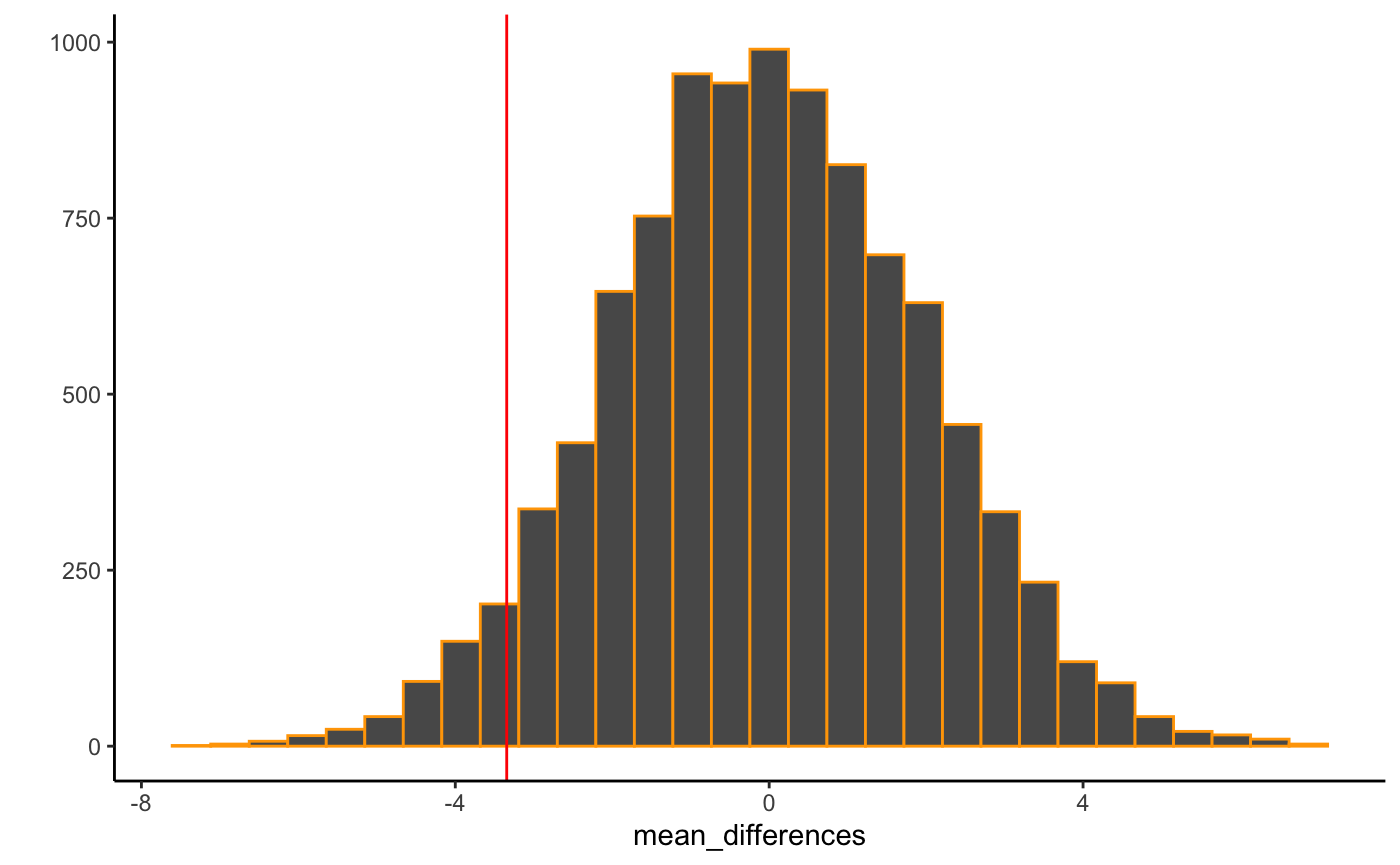
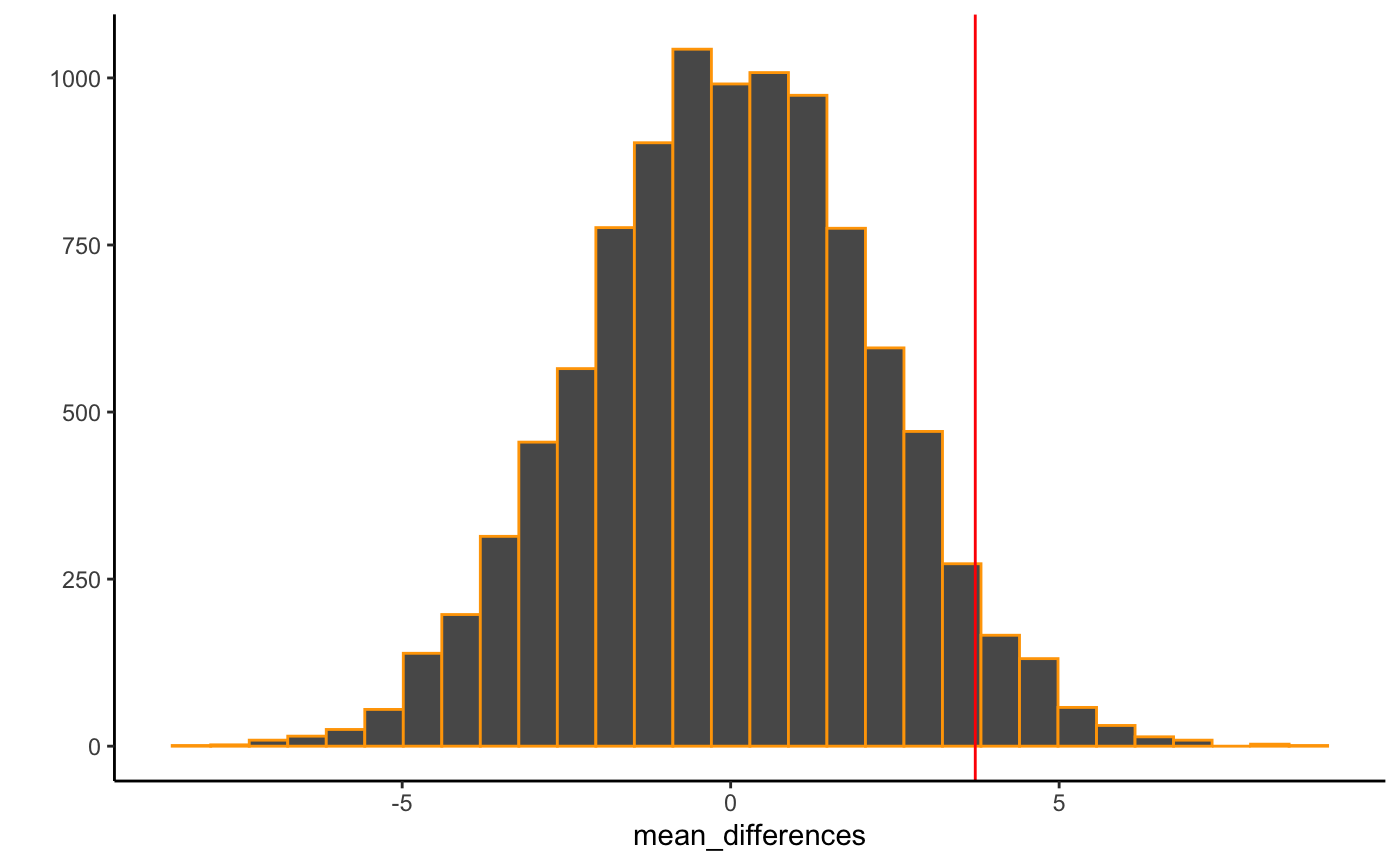
lab 6 videos

diff --git a/docs/articles/Lab6_Statistical_Inference.html b/docs/articles/Lab6_Statistical_Inference.html
@@ -155,6 +155,8 @@
 <div id="readings-and-review" class="section level2">
 <h2 class="hasAnchor">
 <a href="#readings-and-review" class="anchor"></a>Readings and Review</h2>
+<iframe width="560" height="315" src="https://www.youtube.com/embed/_mOn3wLjqqA" frameborder="0" allow="accelerometer; autoplay; clipboard-write; encrypted-media; gyroscope; picture-in-picture" allowfullscreen>
+</iframe>
 <p>This lab marks a departure into the land of statistical inference. We have been working toward these concepts and using R to help us understand basic aspects of distributions and sampling from distributions. These concepts will be applied throughout the remainder of the course as we discuss many different tools and tests and for statistical inference.</p>
 <p>As your instructor (Matt Crump), you should know that I have many “feelings” about statistical inference. That is, I have many perspectives, sometimes competing and even inconsistent ones, about the value, goals, and practice of “doing statistical inference”. This is partly because there are many well-founded opinions and approaches to statistical inference out there to try out, and also partly because there are many known issues and flawed practices that researchers sometimes engage in, and there also many limitations to the kinds of inferences that can be made depending on what you are doing.</p>
 <p>To take one example, a researcher might want to do an “X test” on their data, and even though they don’t really know what the “X test” is all about, they know that they can put their data into a program and press a button, and the program will do the X test, and then they can report the results of the X test in a paper. My view is that this kind of behavior is irresponsible. My view is that, in general, the researcher should have extremely well thought out reasons and justifications and motivations in advance of collecting the data for how they will do the analysis. They should be able to describe how the X test works, what it’s assumptions are, and why it is appropriate to use in their case, as well as what it’s limitations are, and what exactly can be concluded from the test.</p>
@@ -224,7 +226,7 @@
 }
 
 <span class="no">count_examples</span>/<span class="fl">10000</span>
-<span class="co">#&gt; [1] 0.008</span></pre></body></html></div>
+<span class="co">#&gt; [1] 0.0085</span></pre></body></html></div>
 <p>A quick summary. Permutations are different ways to order numbers. For a given set of numbers, there is always a total number of possible orders. If we assume that any of the orders could have been obtained by chance, then we can calculate the chances of getting a particular order.</p>
 </div>
 <div id="a-permutation-test-example" class="section level3">
@@ -248,42 +250,42 @@
 <tr class="odd">
 <td align="left">A</td>
 <td align="right">1</td>
-<td align="right">4</td>
+<td align="right">1</td>
 </tr>
 <tr class="even">
 <td align="left">A</td>
 <td align="right">2</td>
-<td align="right">1</td>
-</tr>
-<tr class="odd">
-<td align="left">A</td>
-<td align="right">3</td>
-<td align="right">3</td>
-</tr>
-<tr class="even">
-<td align="left">A</td>
 <td align="right">4</td>
-<td align="right">7</td>
 </tr>
 <tr class="odd">
-<td align="left">B</td>
-<td align="right">1</td>
-<td align="right">6</td>
-</tr>
-<tr class="even">
-<td align="left">B</td>
-<td align="right">2</td>
-<td align="right">8</td>
-</tr>
-<tr class="odd">
-<td align="left">B</td>
+<td align="left">A</td>
 <td align="right">3</td>
 <td align="right">5</td>
 </tr>
 <tr class="even">
-<td align="left">B</td>
+<td align="left">A</td>
 <td align="right">4</td>
 <td align="right">2</td>
+</tr>
+<tr class="odd">
+<td align="left">B</td>
+<td align="right">1</td>
+<td align="right">3</td>
+</tr>
+<tr class="even">
+<td align="left">B</td>
+<td align="right">2</td>
+<td align="right">6</td>
+</tr>
+<tr class="odd">
+<td align="left">B</td>
+<td align="right">3</td>
+<td align="right">7</td>
+</tr>
+<tr class="even">
+<td align="left">B</td>
+<td align="right">4</td>
+<td align="right">8</td>
 </tr>
 </tbody>
 </table>
@@ -381,7 +383,7 @@
 <p><img src="Lab6_Statistical_Inference_files/figure-html/unnamed-chunk-20-1.png" width="700"></p>
 <p>The histogram shows all of the possible differences we could have obtained by randomly sampling the participants into the different groups. The red line shows the difference that was obtained. These are all facts of this example.</p>
 <p>I like to the think of the “distribution of possible differences” as a window of opportunity for chance. That is, we are looking at differences in the data that could have been produced by chance. We also see that some values occur more often than others. For example, the red line, with the observed difference of 8.25 is 1) inside the distribution, which means that chance could have produced this difference, but 2) it is kind of far to the left, so it seems that chance doesn’t produce a difference this big very often.</p>
-<p>We could be more precise and calculate the odds of getting a difference of 8.25 or larger, which I find to be 10%.</p>
+<p>We could be more precise and calculate the odds of getting a difference of 8.25 or larger, which I find to be 11.4%.</p>
 <div class="sourceCode" id="cb20"><html><body><pre class="r"><span class="fu"><a href="https://rdrr.io/r/base/length.html">length</a></span>(<span class="no">possible_differences</span>[<span class="no">possible_differences</span> <span class="kw">&gt;=</span> <span class="fl">8.25</span>]) / <span class="fu"><a href="https://rdrr.io/r/base/length.html">length</a></span>(<span class="no">possible_differences</span>)
 <span class="co">#&gt; [1] 0.1142857</span></pre></body></html></div>
 <p>So…to return the cartoon character metaphor, we have a who dunnit question. Was Mickey Mouse with the million dollars that caused the difference of 8.25? Or was it Donald Duck with random chance that accidentally produced a difference of 8.25? We know that Mr. Duck only produces a difference of 8.25 or larger 10% of the time…Is that enough to say that Mr. Duck DID NOT DO IT? I don’t think so. He clearly could have done it. Can we be absolutely certain that it was the million dollar manipulation? No. Have we learned anything useful at all? I think so, it seems we got a result that is irregular from the perspective of chance. This might give me some confidence that the experimental manipulation actually caused the difference, and not the act of randomly assigning participants to groups.</p>
@@ -398,11 +400,11 @@
 <span class="no">group_B</span> <span class="kw">&lt;-</span> <span class="fu"><a href="https://rdrr.io/r/stats/Normal.html">rnorm</a></span>(<span class="fl">50</span>,<span class="fl">65</span>,<span class="fl">10</span>)</pre></body></html></div>
 <p>We can then calculate the mean of each group, and look at the difference.</p>
 <div class="sourceCode" id="cb22"><html><body><pre class="r"><span class="fu"><a href="https://rdrr.io/r/base/mean.html">mean</a></span>(<span class="no">group_A</span>)
-<span class="co">#&gt; [1] 62.31775</span>
+<span class="co">#&gt; [1] 68.29682</span>
 <span class="fu"><a href="https://rdrr.io/r/base/mean.html">mean</a></span>(<span class="no">group_B</span>)
-<span class="co">#&gt; [1] 65.66232</span>
+<span class="co">#&gt; [1] 64.57343</span>
 <span class="fu"><a href="https://rdrr.io/r/base/mean.html">mean</a></span>(<span class="no">group_A</span>)-<span class="fu"><a href="https://rdrr.io/r/base/mean.html">mean</a></span>(<span class="no">group_B</span>)
-<span class="co">#&gt; [1] -3.344571</span></pre></body></html></div>
+<span class="co">#&gt; [1] 3.723385</span></pre></body></html></div>
 <p>In some general sense if the manipulation works, that is it <strong>causes a difference</strong>, then we would expect to see a non-zero difference. If the manipulation is ineffective and does nothing, then we expect on average no difference, <strong>however we recognize that we could obtain differences just by chance alone, because of randomly sampling our participants into the different groups</strong>.</p>
 <p>We now want to calculate a <strong>sampling distribution of possible mean differences</strong>. To do this, we take all of the values in Group A and B, and randomly re-assign them across both groups, then recalculate the means and the mean difference. Then we, do this multiple times, as in monte-carlo simulation.</p>
 <div class="sourceCode" id="cb23"><html><body><pre class="r"><span class="co"># creating one random permutation</span>
@@ -411,6 +413,8 @@
 <span class="no">new_A_mean</span> <span class="kw">&lt;-</span> <span class="fu"><a href="https://rdrr.io/r/base/mean.html">mean</a></span>(<span class="no">resample</span>[<span class="fl">1</span>:<span class="fl">50</span>])
 <span class="no">new_B_mean</span> <span class="kw">&lt;-</span> <span class="fu"><a href="https://rdrr.io/r/base/mean.html">mean</a></span>(<span class="no">resample</span>[<span class="fl">51</span>:<span class="fl">100</span>])
 <span class="no">new_difference</span> <span class="kw">&lt;-</span> <span class="no">new_A_mean</span>-<span class="no">new_B_mean</span>
+<span class="no">new_difference</span>
+<span class="co">#&gt; [1] -1.515695</span>
 
 <span class="co"># Simulate the above process 10000 times</span>
 <span class="no">mean_differences</span> <span class="kw">&lt;-</span> <span class="fu"><a href="https://rdrr.io/r/base/c.html">c</a></span>()
@@ -432,7 +436,7 @@
 <p>In terms of a detective novel, this is <strong>chances alibi</strong>, it shows what chance is capable of doing. In this situation, chance alone could easily produce differences between group A and B as large as 4 or -4. Notice, that chance never produces a difference as large as 20. If you had all the information that we have in this example, then as a researcher you could attempt to rule out the possibility that was chance was involved in producing a difference that you observed.</p>
 <p>We can also use this distribution to calculate specific probabilities concerning chance. For example, what is the probability of getting a 4 or larger by chance alone?</p>
 <div class="sourceCode" id="cb25"><html><body><pre class="r"><span class="fu"><a href="https://rdrr.io/r/base/length.html">length</a></span>(<span class="no">mean_differences</span>[<span class="no">mean_differences</span> <span class="kw">&gt;=</span><span class="fl">4</span> ])/<span class="fu"><a href="https://rdrr.io/r/base/length.html">length</a></span>(<span class="no">mean_differences</span>)
-<span class="co">#&gt; [1] 0.0225</span></pre></body></html></div>
+<span class="co">#&gt; [1] 0.0348</span></pre></body></html></div>
 </div>
 <div id="p1-randomization-test-with-real-data" class="section level2">
 <h2 class="hasAnchor">
@@ -480,44 +484,44 @@
 <span class="no">simulation_data</span> <span class="kw">%&gt;%</span>
   <span class="fu"><a href="https://dplyr.tidyverse.org/reference/mutate.html">mutate</a></span>(<span class="kw">Intellect_Rating</span> <span class="kw">=</span> <span class="fu"><a href="https://rdrr.io/r/base/sample.html">sample</a></span>(<span class="no">Intellect_Rating</span>))
 <span class="co">#&gt;    CONDITION Intellect_Rating</span>
-<span class="co">#&gt; 1          1        3.6666667</span>
-<span class="co">#&gt; 2          1        5.0000000</span>
-<span class="co">#&gt; 3          1        3.3333333</span>
-<span class="co">#&gt; 4          0        2.0000000</span>
-<span class="co">#&gt; 5          0        9.0000000</span>
-<span class="co">#&gt; 6          0        5.6666667</span>
-<span class="co">#&gt; 7          1        6.0000000</span>
-<span class="co">#&gt; 8          0        6.6666667</span>
-<span class="co">#&gt; 9          1        5.0000000</span>
-<span class="co">#&gt; 10         0        1.6666667</span>
-<span class="co">#&gt; 11         0        6.3333333</span>
-<span class="co">#&gt; 12         1        3.6666667</span>
-<span class="co">#&gt; 13         1        6.0000000</span>
-<span class="co">#&gt; 14         0        4.6666667</span>
+<span class="co">#&gt; 1          1        6.6666667</span>
+<span class="co">#&gt; 2          1        6.0000000</span>
+<span class="co">#&gt; 3          1        5.3333333</span>
+<span class="co">#&gt; 4          0        5.6666667</span>
+<span class="co">#&gt; 5          0        3.3333333</span>
+<span class="co">#&gt; 6          0        3.3333333</span>
+<span class="co">#&gt; 7          1        7.6666667</span>
+<span class="co">#&gt; 8          0        4.6666667</span>
+<span class="co">#&gt; 9          1        6.0000000</span>
+<span class="co">#&gt; 10         0        7.0000000</span>
+<span class="co">#&gt; 11         0        5.6666667</span>
+<span class="co">#&gt; 12         1        6.0000000</span>
+<span class="co">#&gt; 13         1        3.6666667</span>
+<span class="co">#&gt; 14         0        6.0000000</span>
 <span class="co">#&gt; 15         0        2.3333333</span>
-<span class="co">#&gt; 16         1        5.0000000</span>
-<span class="co">#&gt; 17         1        0.6666667</span>
-<span class="co">#&gt; 18         1        2.3333333</span>
-<span class="co">#&gt; 19         0        3.6666667</span>
-<span class="co">#&gt; 20         0        4.6666667</span>
-<span class="co">#&gt; 21         0        6.0000000</span>
-<span class="co">#&gt; 22         0        6.6666667</span>
-<span class="co">#&gt; 23         0        5.3333333</span>
+<span class="co">#&gt; 16         1        1.0000000</span>
+<span class="co">#&gt; 17         1        3.6666667</span>
+<span class="co">#&gt; 18         1        6.3333333</span>
+<span class="co">#&gt; 19         0        4.6666667</span>
+<span class="co">#&gt; 20         0        6.6666667</span>
+<span class="co">#&gt; 21         0        9.0000000</span>
+<span class="co">#&gt; 22         0        0.6666667</span>
+<span class="co">#&gt; 23         0        3.6666667</span>
 <span class="co">#&gt; 24         1        3.6666667</span>
-<span class="co">#&gt; 25         1        3.6666667</span>
-<span class="co">#&gt; 26         1        7.0000000</span>
-<span class="co">#&gt; 27         0        7.6666667</span>
-<span class="co">#&gt; 28         1        5.6666667</span>
+<span class="co">#&gt; 25         1        5.0000000</span>
+<span class="co">#&gt; 26         1        2.3333333</span>
+<span class="co">#&gt; 27         0        2.0000000</span>
+<span class="co">#&gt; 28         1        6.0000000</span>
 <span class="co">#&gt; 29         1        4.6666667</span>
-<span class="co">#&gt; 30         1        6.0000000</span>
-<span class="co">#&gt; 31         0        9.0000000</span>
-<span class="co">#&gt; 32         0        3.3333333</span>
-<span class="co">#&gt; 33         1        4.6666667</span>
-<span class="co">#&gt; 34         1        1.6666667</span>
+<span class="co">#&gt; 30         1        1.6666667</span>
+<span class="co">#&gt; 31         0        5.0000000</span>
+<span class="co">#&gt; 32         0        3.6666667</span>
+<span class="co">#&gt; 33         1        5.0000000</span>
+<span class="co">#&gt; 34         1        9.0000000</span>
 <span class="co">#&gt; 35         0        5.6666667</span>
-<span class="co">#&gt; 36         1        1.0000000</span>
+<span class="co">#&gt; 36         1        4.6666667</span>
 <span class="co">#&gt; 37         0        3.3333333</span>
-<span class="co">#&gt; 38         1        6.0000000</span>
+<span class="co">#&gt; 38         1        1.6666667</span>
 <span class="co">#&gt; 39         1        5.6666667</span>
 
 <span class="co"># example of calculating a new mean difference</span>
@@ -525,19 +529,18 @@
 <span class="no">new_data</span> <span class="kw">&lt;-</span> <span class="no">simulation_data</span> <span class="kw">%&gt;%</span>
   <span class="fu"><a href="https://dplyr.tidyverse.org/reference/mutate.html">mutate</a></span>(<span class="kw">Intellect_Rating</span> <span class="kw">=</span> <span class="fu"><a href="https://rdrr.io/r/base/sample.html">sample</a></span>(<span class="no">Intellect_Rating</span>)) <span class="kw">%&gt;%</span>
   <span class="fu"><a href="https://dplyr.tidyverse.org/reference/group_by.html">group_by</a></span>(<span class="no">CONDITION</span>) <span class="kw">%&gt;%</span>
-  <span class="fu"><a href="https://dplyr.tidyverse.org/reference/summarise.html">summarize</a></span>(<span class="kw">new_means</span> <span class="kw">=</span> <span class="fu"><a href="https://rdrr.io/r/base/mean.html">mean</a></span>(<span class="no">Intellect_Rating</span>))
-<span class="co">#&gt; `summarise()` ungrouping output (override with `.groups` argument)</span>
+  <span class="fu"><a href="https://dplyr.tidyverse.org/reference/summarise.html">summarize</a></span>(<span class="kw">new_means</span> <span class="kw">=</span> <span class="fu"><a href="https://rdrr.io/r/base/mean.html">mean</a></span>(<span class="no">Intellect_Rating</span>), <span class="kw">.groups</span><span class="kw">=</span><span class="st">"drop"</span>)
 
 <span class="no">new_data</span>
 <span class="co">#&gt; # A tibble: 2 x 2</span>
 <span class="co">#&gt;   CONDITION new_means</span>
 <span class="co">#&gt;       &lt;int&gt;     &lt;dbl&gt;</span>
-<span class="co">#&gt; 1         0      4.96</span>
-<span class="co">#&gt; 2         1      4.51</span>
+<span class="co">#&gt; 1         0      5.13</span>
+<span class="co">#&gt; 2         1      4.37</span>
 <span class="no">new_data</span>[<span class="no">new_data</span>$<span class="no">CONDITION</span> <span class="kw">==</span> <span class="fl">0</span>,]$<span class="no">new_means</span>
-<span class="co">#&gt; [1] 4.962963</span>
+<span class="co">#&gt; [1] 5.12963</span>
 <span class="no">new_data</span>[<span class="no">new_data</span>$<span class="no">CONDITION</span> <span class="kw">==</span> <span class="fl">1</span>,]$<span class="no">new_means</span>
-<span class="co">#&gt; [1] 4.507937</span>
+<span class="co">#&gt; [1] 4.365079</span>
 <span class="no">new_difference</span> <span class="kw">&lt;-</span> <span class="no">new_data</span>[<span class="no">new_data</span>$<span class="no">CONDITION</span> <span class="kw">==</span> <span class="fl">1</span>,]$<span class="no">new_means</span>-<span class="no">new_data</span>[<span class="no">new_data</span>$<span class="no">CONDITION</span> <span class="kw">==</span> <span class="fl">0</span>,]$<span class="no">new_means</span>
 
 <span class="co"># Run a randomization test</span>
@@ -562,7 +565,7 @@
 <span class="co">#&gt; `stat_bin()` using `bins = 30`. Pick better value with `binwidth`.</span></pre></body></html></div>
 <p><img src="Lab6_Statistical_Inference_files/figure-html/unnamed-chunk-29-1.png" width="700"> It’s pretty clear in this example that a mean difference of 2 rarely occurred across the random shuffles of the data. The odds of getting 2 or larger from the simulation were:</p>
 <div class="sourceCode" id="cb29"><html><body><pre class="r"><span class="fu"><a href="https://rdrr.io/r/base/length.html">length</a></span>(<span class="no">possible_differences</span>[<span class="no">possible_differences</span> <span class="kw">&gt;=</span> <span class="fl">2</span>]) / <span class="fu"><a href="https://rdrr.io/r/base/length.html">length</a></span>(<span class="no">possible_differences</span>)
-<span class="co">#&gt; [1] 0.001</span></pre></body></html></div>
+<span class="co">#&gt; [1] 0</span></pre></body></html></div>
 <p>What can be concluded from this exercise? Should we conclude that that experimental manipulation actually caused the difference in Intellect ratings? Should we conclude that chance did not produce the difference?</p>
 <p>I’m a bit more conservative about what can be concluded. I would say that the exercise of producing the sampling distribution of differences was very useful. It gives me a pretty good sense of the kinds of differences that chance alone could produce. It shows me that a difference of 2 is very rarely produced by chance alone. This gives me some confidence to rule out chance as a candidate. In other words, I do not really think that chance has a great alibi, it wouldn’t have produced the pattern in the data very often. At the same time, it could have, just not very often…so, we can be confident, but not completely sure that chance didn’t do it.</p>
 <p>As for the experimental manipulation…if it wasn’t chance that caused the difference, is it necessarily the case that the manipulation caused the difference? This is like saying Donald Duck did not cause the difference, therefore my manipulation did cause the difference. It makes no sense. Instead, sure, the manipulation could have caused the difference, also maybe there were other confounds that were not addressed that caused the difference. Ruling out chance doesn’t tell you what caused the difference, it just suggests that the difference wasn’t caused by chance.</p>
@@ -612,6 +615,8 @@
 <div id="lab-6-generalization-assignment" class="section level2">
 <h2 class="hasAnchor">
 <a href="#lab-6-generalization-assignment" class="anchor"></a>Lab 6 Generalization Assignment</h2>
+<iframe width="560" height="315" src="https://www.youtube.com/embed/-hUdBEn2tUg" frameborder="0" allow="accelerometer; autoplay; clipboard-write; encrypted-media; gyroscope; picture-in-picture" allowfullscreen>
+</iframe>
 <div id="instructions" class="section level3">
 <h3 class="hasAnchor">
 <a href="#instructions" class="anchor"></a>Instructions</h3>
